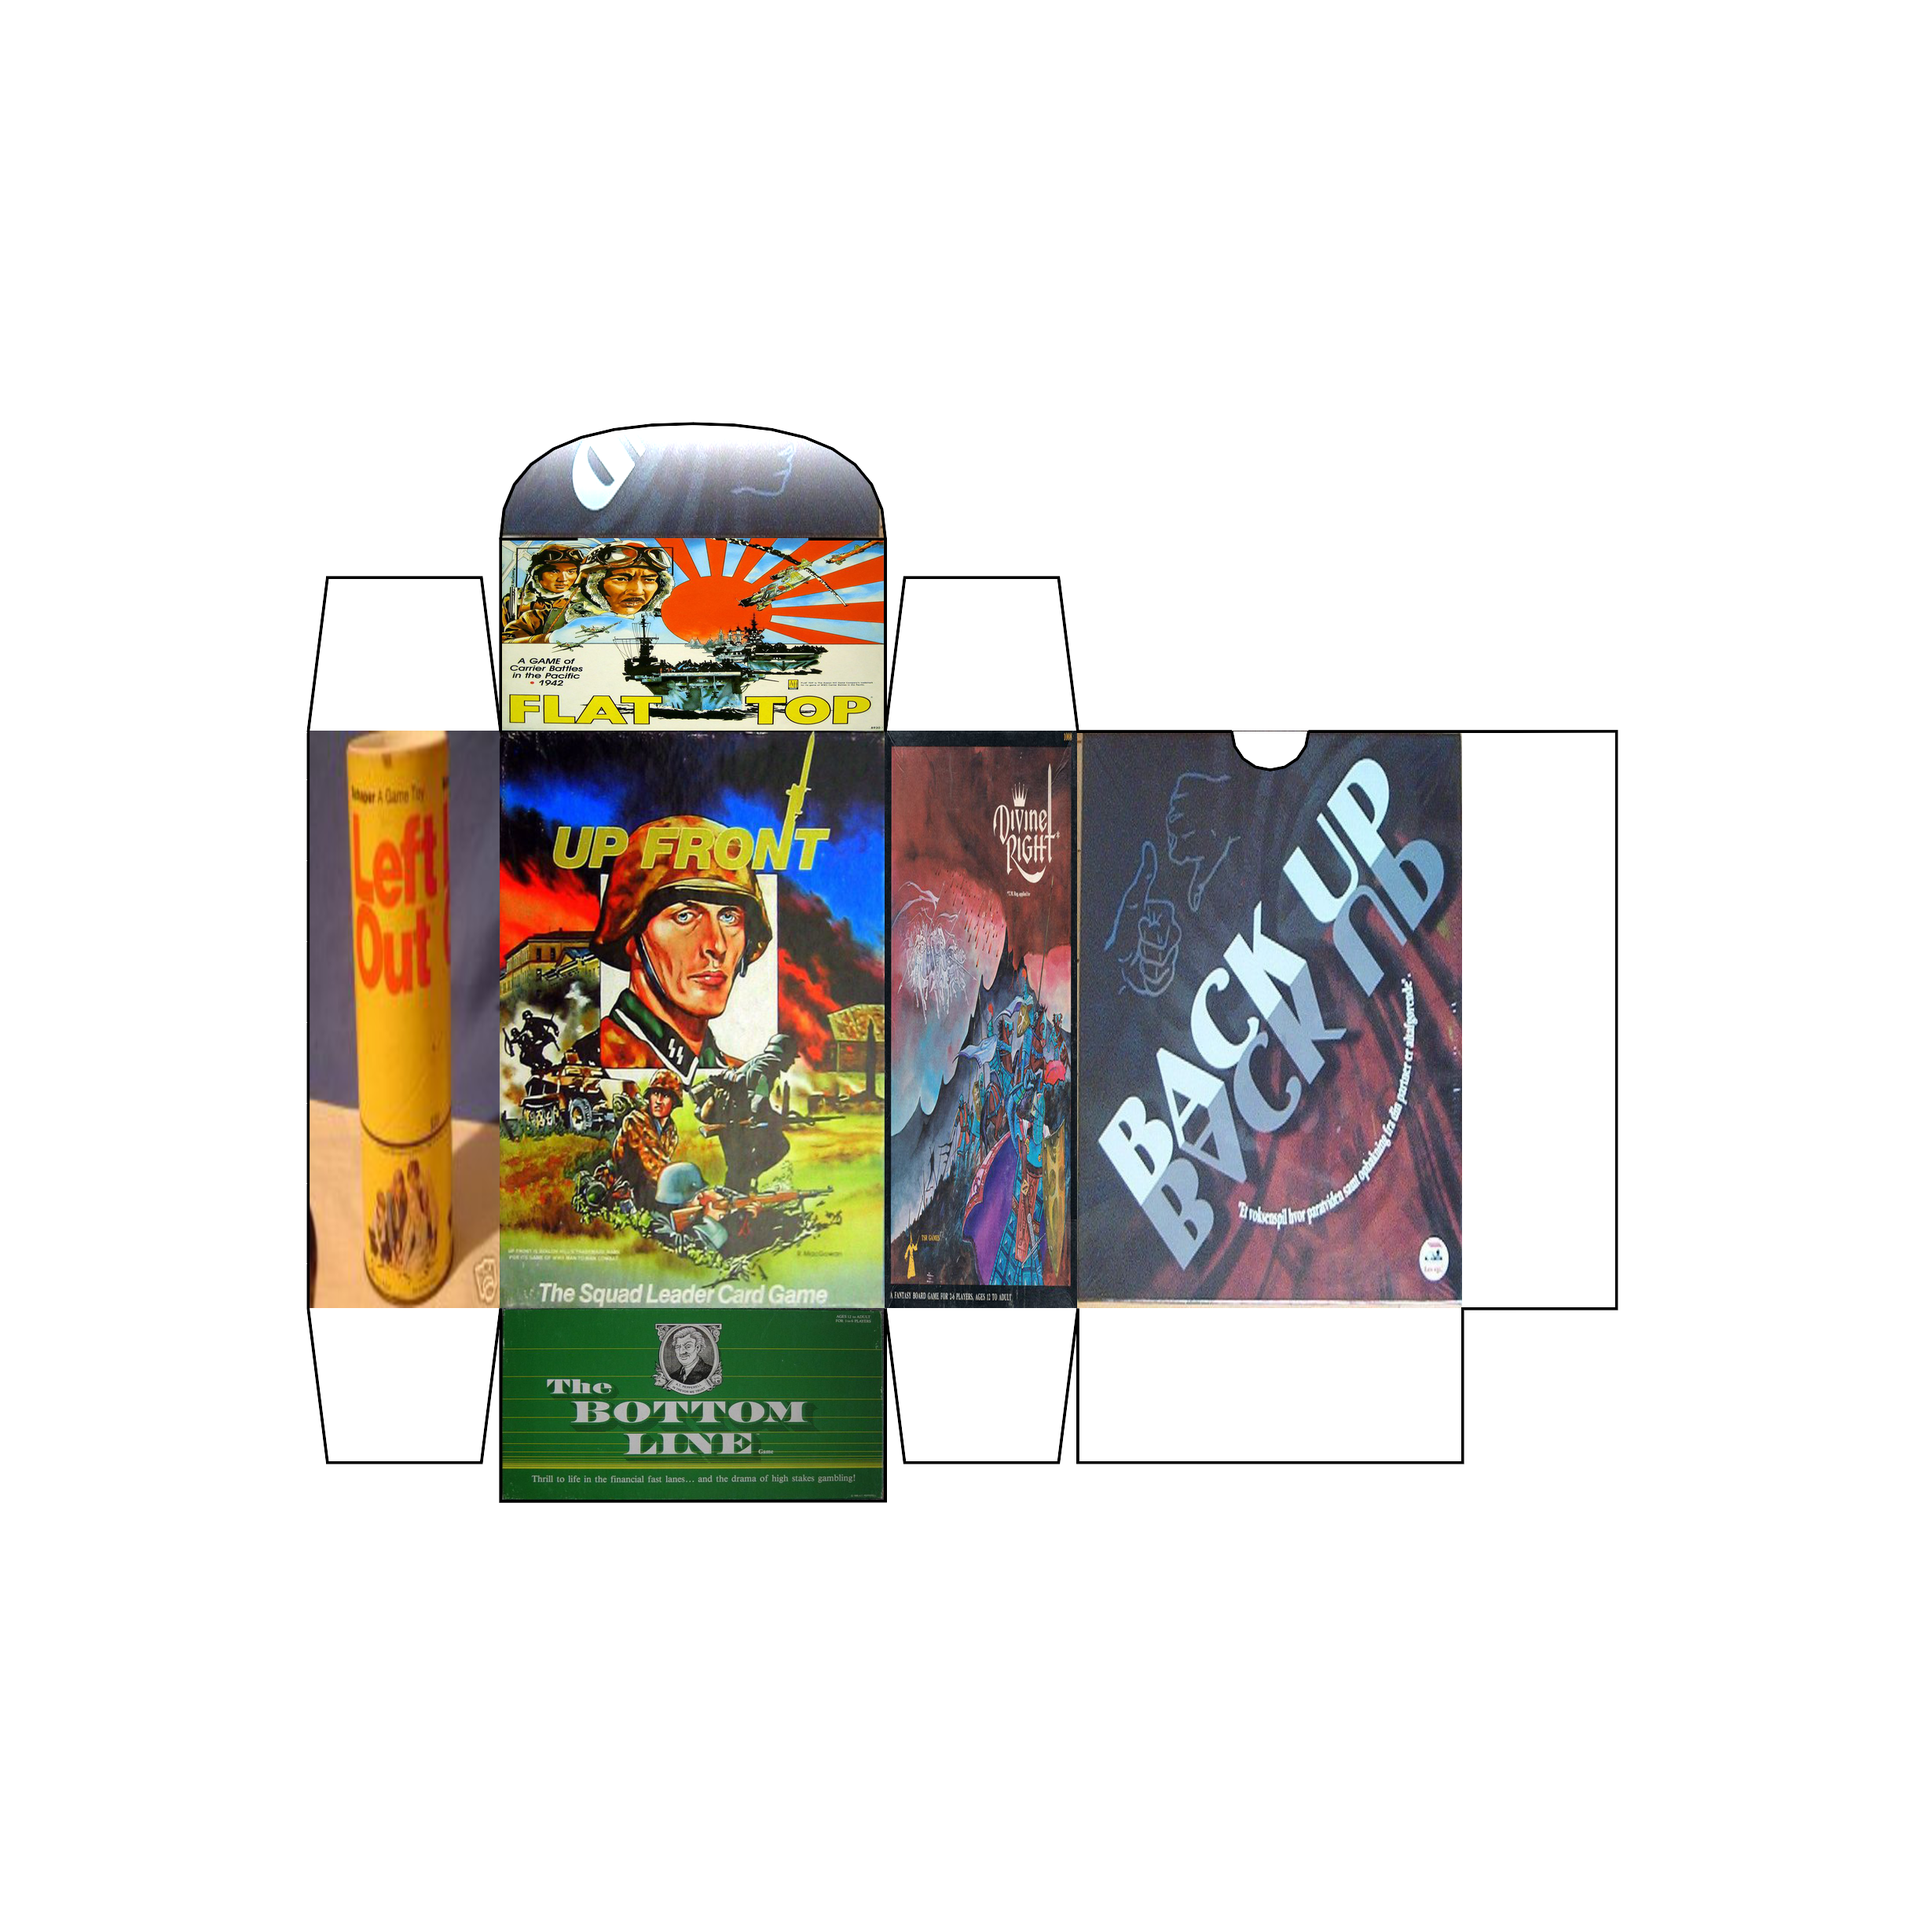
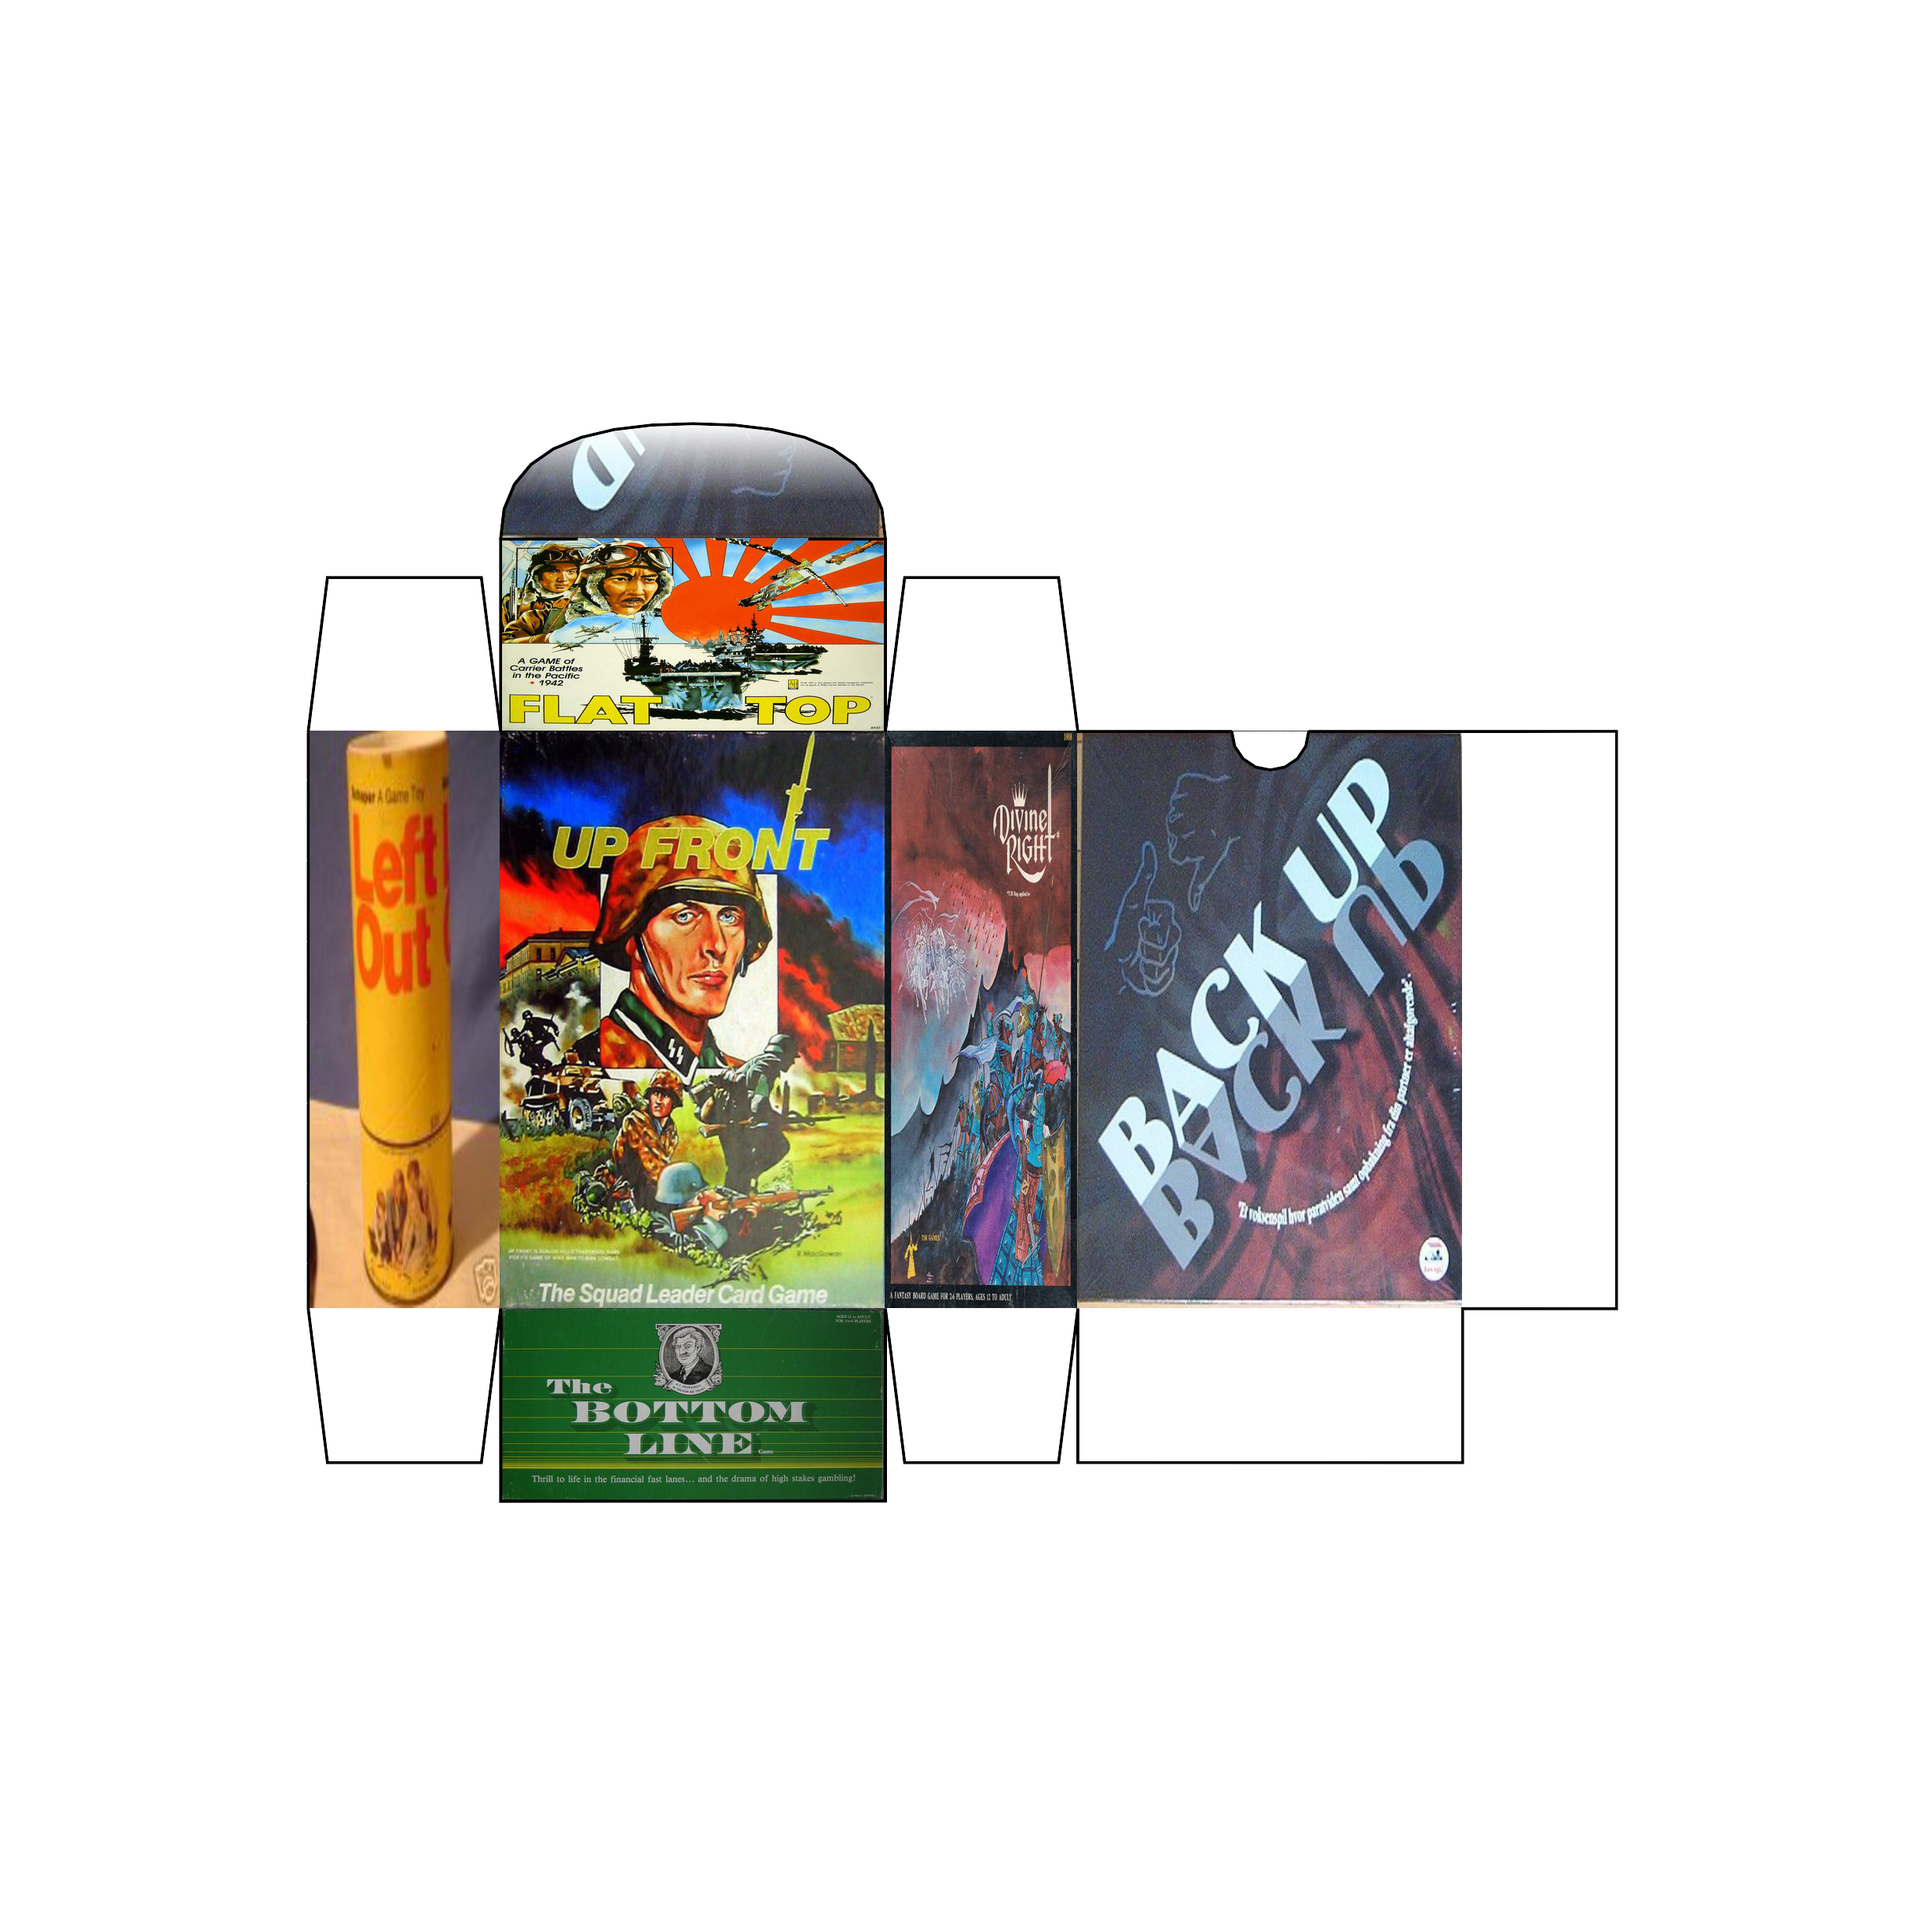
Make sure the lip is visible for the finger hold

Changed region(s): [[0.2483, 0.2172, 0.4655, 0.2793]]

diff --git a/tuckbox/box.py b/tuckbox/box.py
@@ -350,8 +350,16 @@ class TuckBoxDrawing:
 
         lip_image.crop(top=lip_image.height - lip_full_mask_image.height)
 
-        lip_image = lip_image.fx("u+1-sin(pi*j/(2*h))")
-
+        # u = image pixel
+        # h = height
+        # j = row
+        # Radius of the hold is {self.tuckbox['width']*.1}
+        # if value is 1 (or more_, it's white
+        # Top is the tip of the lip, bottom is attached to the box
+        # finger_hold_size_save is the row # at which it should be no attenuation below
+        finger_hold_size_save = str(int(lip_image.height - math.ceil(self.tuckbox['width'] * POINT_PER_MM * 0.1)))
+        lip_image = lip_image.fx("j>"+finger_hold_size_save+"?u:1+(u-1)*(j/"+finger_hold_size_save+")")
+        
         lip_image.composite(operator='lighten', image=lip_full_mask_image)
 
         return lip_image
@@ -406,7 +414,7 @@ if __name__ == "__main__":
     tuckbox = {'height': 100, 'width': 80, 'depth': 40}
     options = {'left_angle': 3, 'right_angle': 1,
                'bottom_angle': 2, 'folding_guides': True, "folds_dashed": False}
-    with open("front.jpg", "rb") as front, open("house.png", "rb") as back, open("left.jpg", "rb") as left, open("right.jpg", "rb") as right, open("top.jpg", "rb") as top, open("bottom.jpg", "rb") as bottom:
+    with open("front.jpg", "rb") as front, open("back.jpg", "rb") as back, open("left.jpg", "rb") as left, open("right.jpg", "rb") as right, open("top.jpg", "rb") as top, open("bottom.jpg", "rb") as bottom:
         faces = {'front': front, 'back': back, 'left': left,
                  'right': right, 'top': top, 'bottom': bottom}
         box = TuckBoxDrawing(tuckbox, paper, faces, options)
